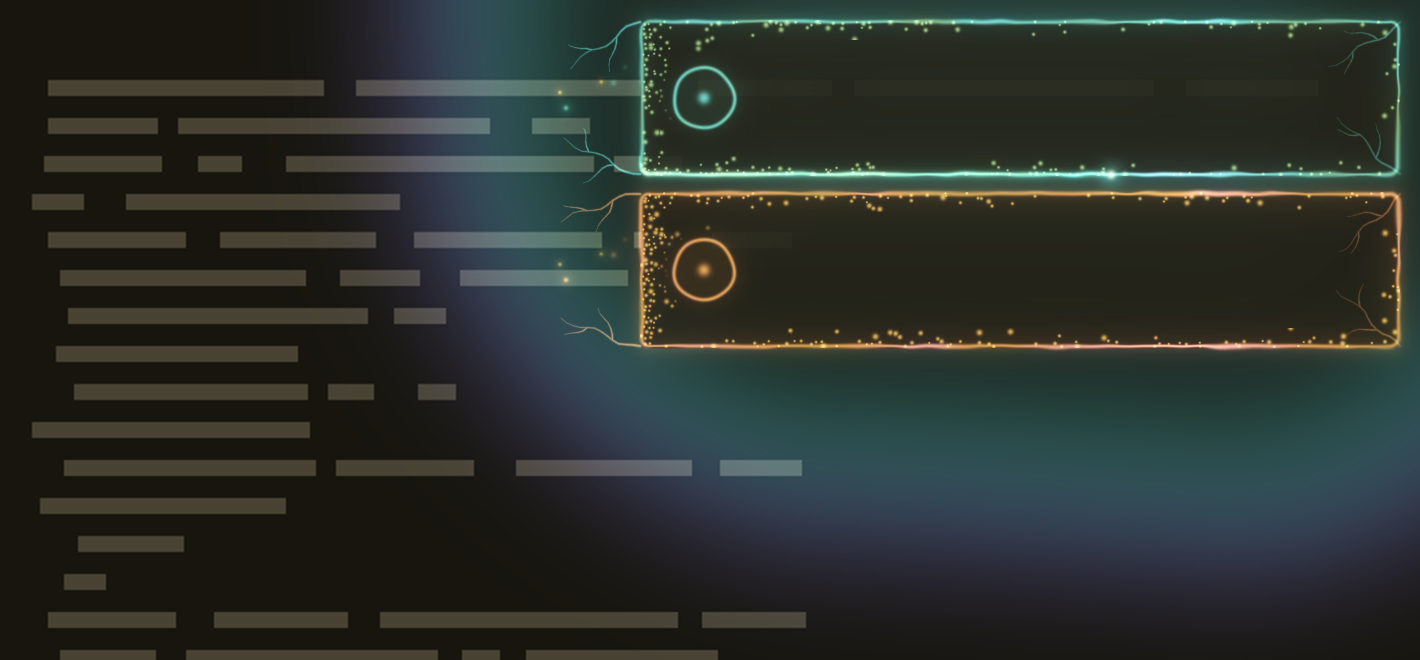
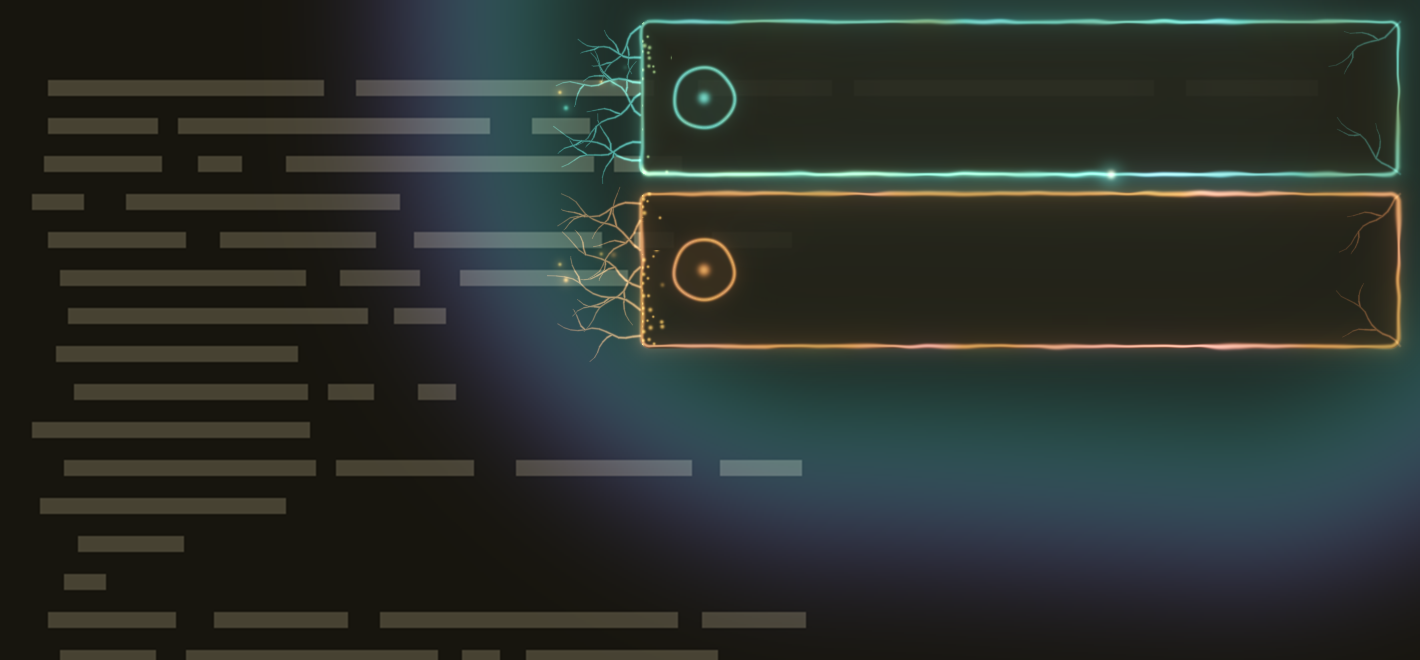
Growth: many roots along the left edge; the lichen back to how it was
The user meant the root-like veins, not the lichen, by 'a lot more': the denser lichen is reverted to its first
version and the veins become roots, about one per 10 px of the card's height along the whole left edge, each with its own
direction, length and moment of growing (the near-top ones lean down, the near-bottom ones up, so they stay in the card's band).
Committed without running the growth tests, at the user's request; the vein checks may need their thresholds revisited.

diff --git a/AGENTS.md b/AGENTS.md
@@ -64,7 +64,7 @@ changes nothing.
 bash test/tools-test.sh          # import-upstream and check-upstream, against a scratch Omarchy (47 checks)
 node test/logic-test.js          # NotificationLogic.js (35 checks)
 bash test/motion-test.sh         # components/SlotMotion.qml, offscreen with the real Qt Quick runtime (22 checks)
-bash test/growth-test.sh         # shaders/toastgrowth.frag through the harness (44 checks)
+bash test/growth-test.sh         # shaders/toastgrowth.frag through the harness (44 checks, stale for the roots: see below)
 bash test/service-probe.sh       # the REAL Service.qml in an offscreen Quickshell (26 checks, ~30 s): the theme gate on,
                                  # off and switched live, motion_slowdown, the setting parser. Only the layer-shell
                                  # window type is swapped for a plain one in a copy; everything else is as shipped.
@@ -259,10 +259,16 @@ blend. The preview needs numpy and pillow, which this sandbox lacks: `python3 -m
 works (the network is open to PyPI).
 **After the user's live test (2026-10-31, recording in ~/Videos):** the user liked it, asked for the countdown to lie *exactly on* the bottom
 border (it ran 3 px above and read as two lines; now it is the rim's own distance field plus sway, lit and undulating in thickness,
-so it cannot drift off the border) and for a lot more lichen (now deep on the left, along the top and bottom, creeping in with
-`growth`). Two test lessons: the alignment check first used the brightest row, which let both a 3 px offset and a missing sway
-through (the border outshines the line); it now compares centroids column by column, against a growth-0 render where the border is
-alone. And dots larger than the 3x3 cell search are cut flat, which only showed in a zoomed preview: look at previews zoomed.
+so it cannot drift off the border; confirmed good) and for "a lot more" of something they called lichen. **I read that as lichen and was
+wrong**: I made the dots 3 to 7 times denser and deeper and the user said it was too much and in the way. They meant the root-like
+growths (the veins) coming out of the card. So: the lichen is back to its first version, and the veins are now roots, about one per
+10 px of the card's height along the whole left edge. Lesson: when a request names a feature, check against the recording which
+element is meant before multiplying it. Test lessons from that round: the alignment check first used the brightest row, which let both
+a 3 px offset and a missing sway through (the border outshines the line); it now compares centroids column by column against a growth-0
+render where the border is alone. And dots larger than the 3x3 cell search are cut flat, which only showed in a zoomed preview: look at
+previews zoomed. **The roots change was committed without running the growth tests** (the user asked not to run the full path every
+time): the vein checks in `test/growth-test.sh` were written for four veins and may need their thresholds revisited; run it and
+fix before releasing.
 
 ## Conventions
 

diff --git a/docs/design/README.md b/docs/design/README.md
@@ -58,13 +58,14 @@ shader behind `look=growth`, so the live comparison with the blend is one line i
 mock-up C, whose wavy outline and ragged strip read as glitches:
 - **The outline stays straight and is alive instead**: thickness and colour vary slowly along its length (colonies of moss
   and teal), its edge moves under a pixel, and a slow pulse of sap travels round it.
-- **Lichen is a scatter of tiny dots**, jittered so it is not a grid, of varying size, clustered in colonies: thick and
-  about 30 px deep along the left edge, thinning inward, and hugging the top and bottom borders a few px in (thicker toward the
-  left, where it came from). It creeps in as the toast arrives, nearest the edge first. Kept clear of the icon. The first
-  version was a thin patchy strip (49 to 125 lit pixels, by seed); after live testing ("increase it a lot") it is 3 to 7 times that.
-- **Veins** are fine curves with two side branches, grown from the four corners when the toast arrives (outward on the left,
-  where there is free space; inward on the right, since the screen's edge is there and the toast below is under): they cannot
-  run onto the next toast.
+- **Lichen is a scatter of tiny dots**, jittered so it is not a grid, clustered in patches on the left edge inside the card,
+  thinning inward and kept clear of the icon; not a ragged strip. (A denser, deeper version, creeping along the top and bottom
+  too, was tried after the first live test and was too much and in the way: the user had meant the roots, below, not the lichen.)
+- **Roots**: fine curves with two side branches, **many of them along the whole left edge** (about one per 10 px of the card's
+  height, each with its own place, direction, length and moment of starting), reaching out into the free space on the left as
+  the toast arrives; those near the top lean down and those near the bottom lean up, so they stay in the card's own band and
+  cannot reach the toast below or the screen's edge. Fainter ones grow across the card from its right corners (the screen's
+  edge is there). The first version had one from each corner.
 - **The countdown is the bottom border itself, lit**: drawn from the same distance field and sway as the outline, so it lies
   exactly on it and the two read as one line (the first version ran 3 px above the border, which the user saw as two lines).
   Where there is time left the border is brighter and thicker, its thickness undulating along it like a vein; the part that has run

diff --git a/docs/runbooks/live-checklist.md b/docs/runbooks/live-checklist.md
@@ -176,12 +176,11 @@ flipping between the two with the same notifications. The design is `docs/design
 
 - [ ] with `look=growth`, toasts have a **living outline**: its thickness and colour vary slowly along its length, moss
       and teal, and a slow pulse of light travels round it; the outline is **straight**, not wavy
-- [ ] fine **veins with side branches grow out of the four corners** when a toast arrives (over about a second and a half),
-      outward to the left on the left corners, across the card on the right ones, and then stay faint; none cross onto the
-      toast below
-- [ ] **lichen** (tiny dots in colonies) is thick along the left edge, about 30 px deep, and hugs the top and bottom
-      borders; it creeps in as the toast arrives, and keeps clear of the icon and of the text (say if it gets in the way of
-      reading, or if it is still not enough)
+- [ ] **many roots** (about one per 10 px of the card's height, each with side branches) grow out of the left edge when a toast
+      arrives (over about a second and a half), reaching into the free space; fainter veins grow across the card from its
+      right corners; none cross onto the toast below
+- [ ] on the left edge, inside the card, a **scatter of tiny dots (lichen)** in patches, thinning inward and kept clear of
+      the icon; some toasts have none, which is intended
 - [ ] the icon ring is very slightly irregular (it should read as organic, not as a lumpy circle)
 - [ ] the countdown is **the bottom border itself, lit**: it lies exactly on the border (one line, not two), is brighter and
       thicker where there is time left with its thickness undulating, retreats from the right and ends in a bud
